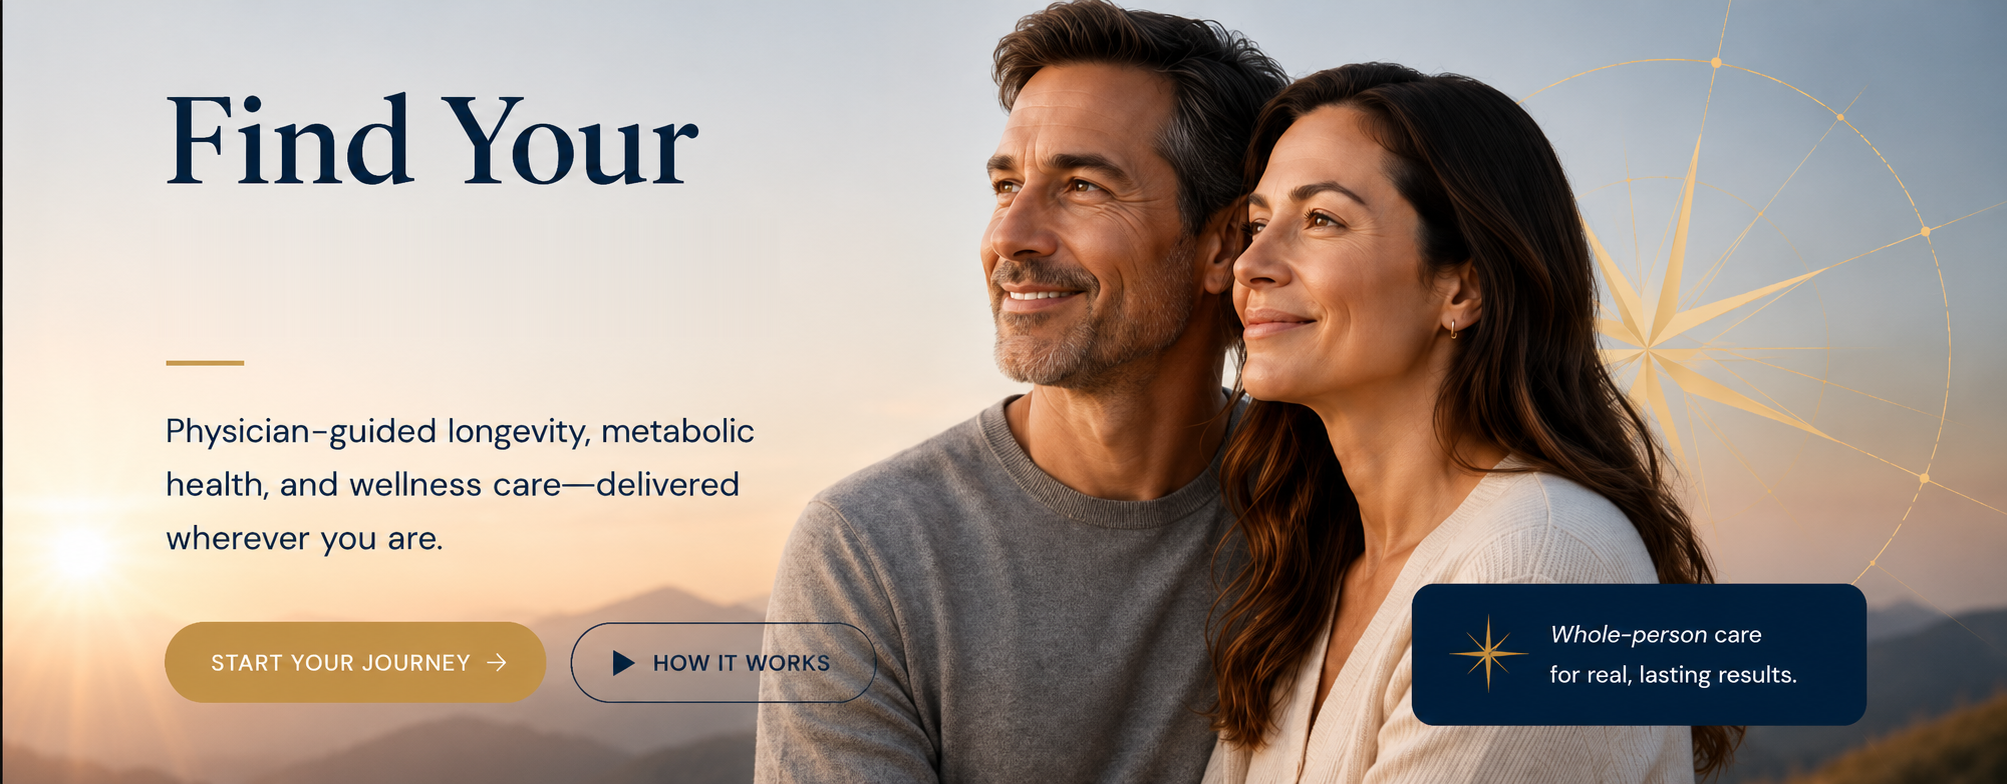
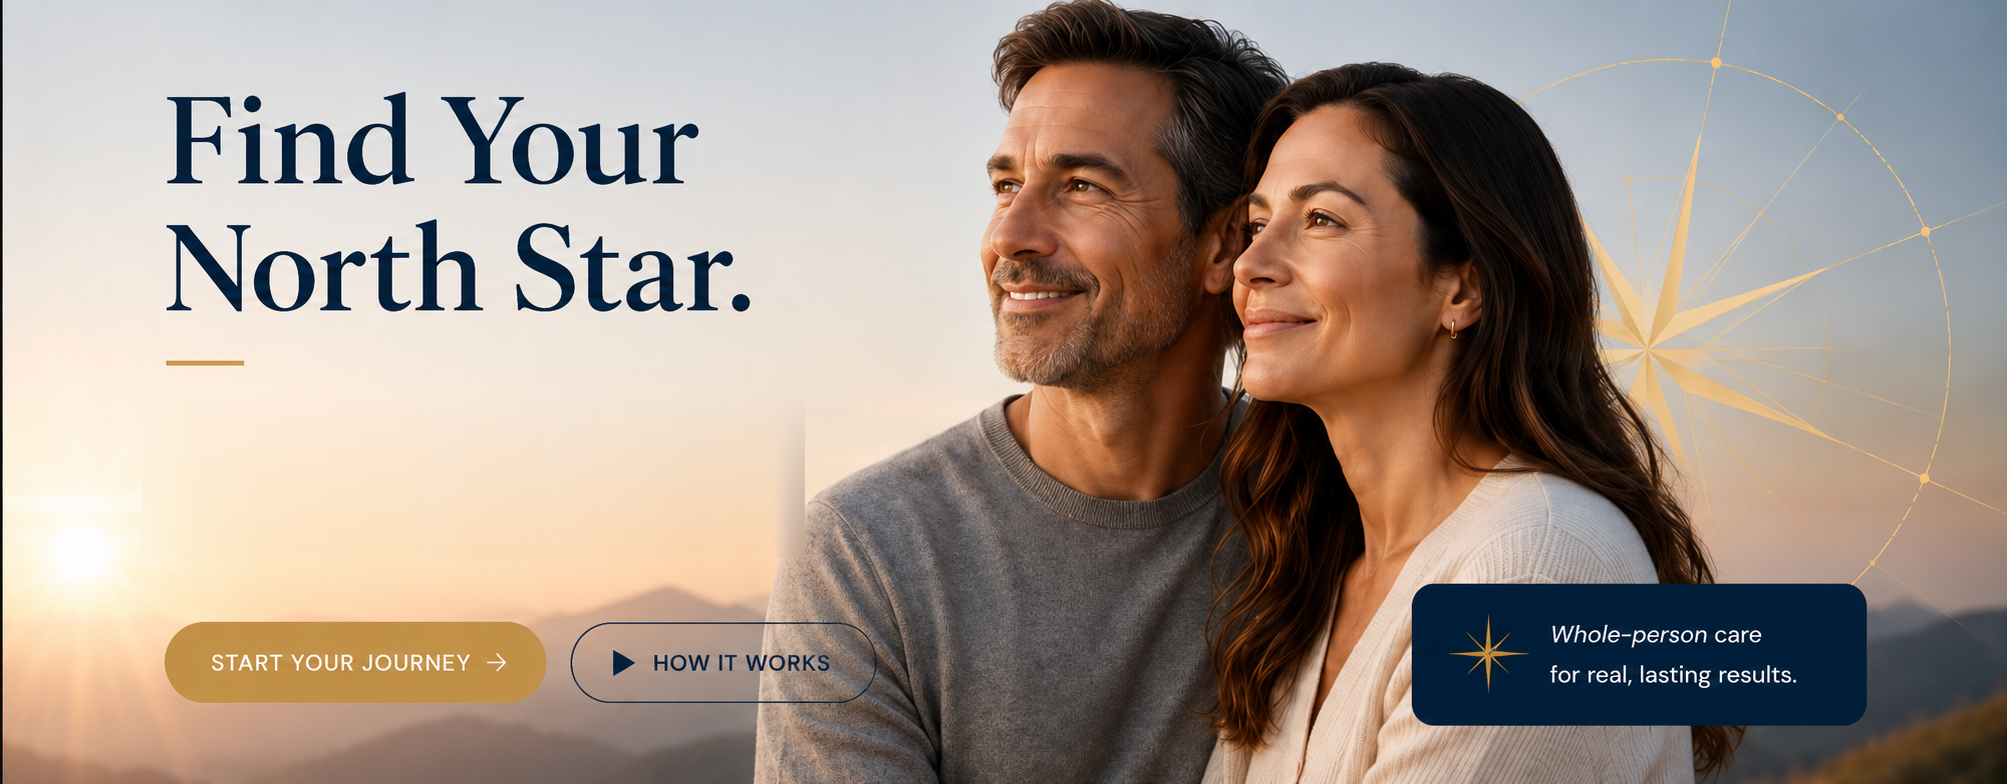
Keep Find Your North Star and remove only the physician-guided paragraph.

Changed region(s): [[0.0618, 0.5204, 0.4016, 0.6735], [0.0618, 0.2755, 0.3707, 0.398], [0.0618, 0.6735, 0.2162, 0.7041]]

diff --git a/src/components/nexa-shell/YuccaHome.tsx b/src/components/nexa-shell/YuccaHome.tsx
@@ -21,7 +21,7 @@ function HeroSection() {
       <div className="ns-hero-slides">
         <div className="ns-hero-slide is-active">
           <img
-            src="/images/home/hero-desktop-treatments.png?v=20260818e"
+            src="/images/home/hero-desktop-treatments.png?v=20260818f"
             data-fallback="/upper image on that landing page.png"
             alt="Physician-guided longevity with North Star MD"
             className="ns-hero-desktop-img"
@@ -29,7 +29,7 @@ function HeroSection() {
             fetchPriority="high"
           />
           <img
-            src="/images/home/hero-mobile-treatments.png?v=20260818e"
+            src="/images/home/hero-mobile-treatments.png?v=20260818f"
             data-fallback="/images/heroheaderformobiledisplay.png"
             alt="Physician-guided longevity with North Star MD"
             className="ns-hero-mobile-img"

diff --git a/src/app/layout.tsx b/src/app/layout.tsx
@@ -54,7 +54,7 @@ export default function RootLayout({
         <link
           rel="preload"
           as="image"
-          href="/images/home/hero-desktop-treatments.png?v=20260818e"
+          href="/images/home/hero-desktop-treatments.png?v=20260818f"
         />
       </head>
       <body>
